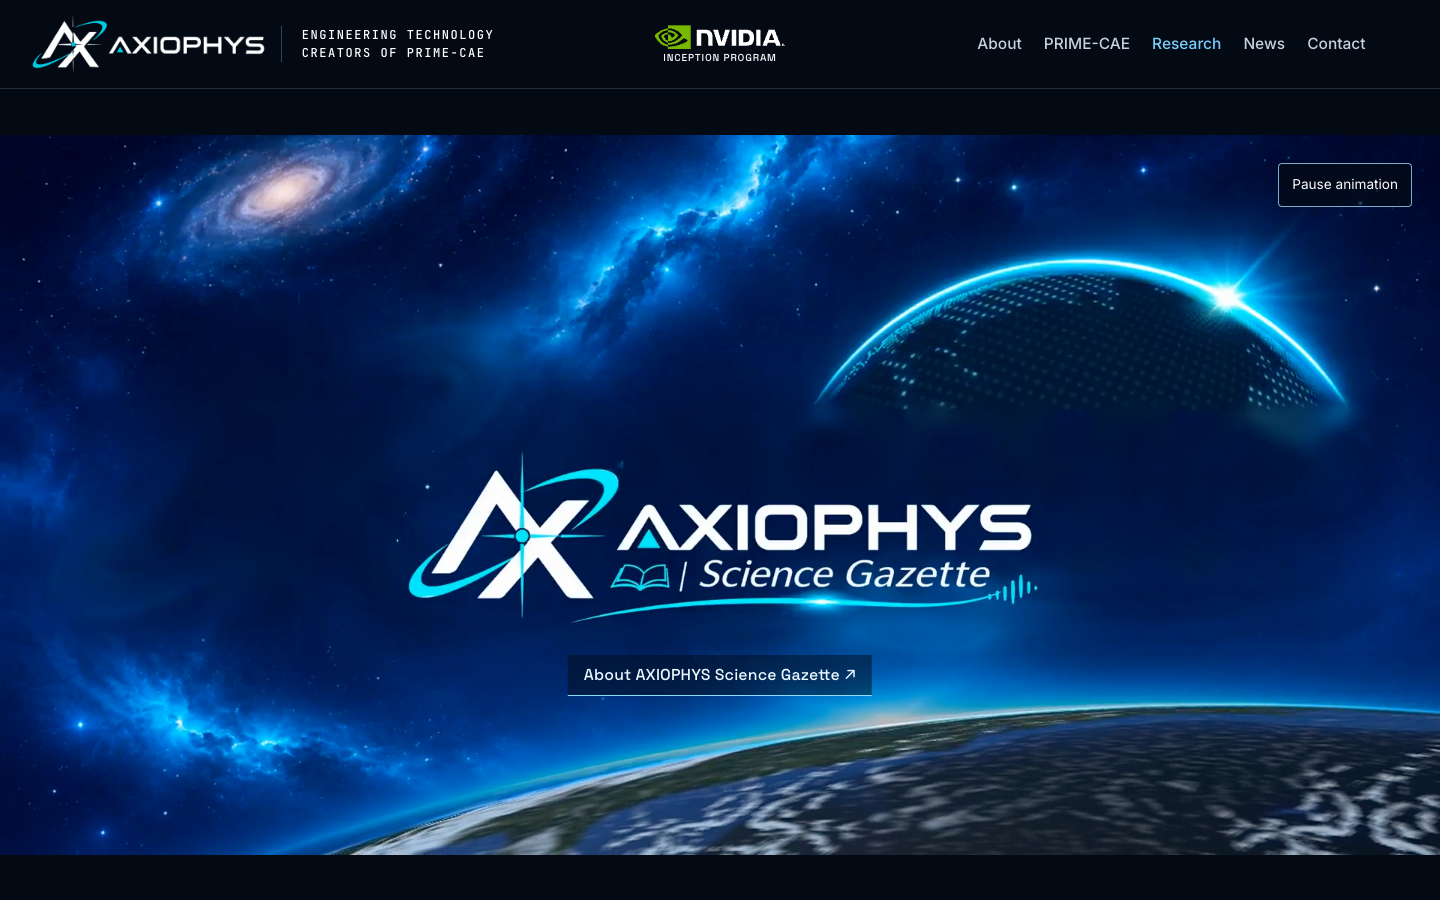
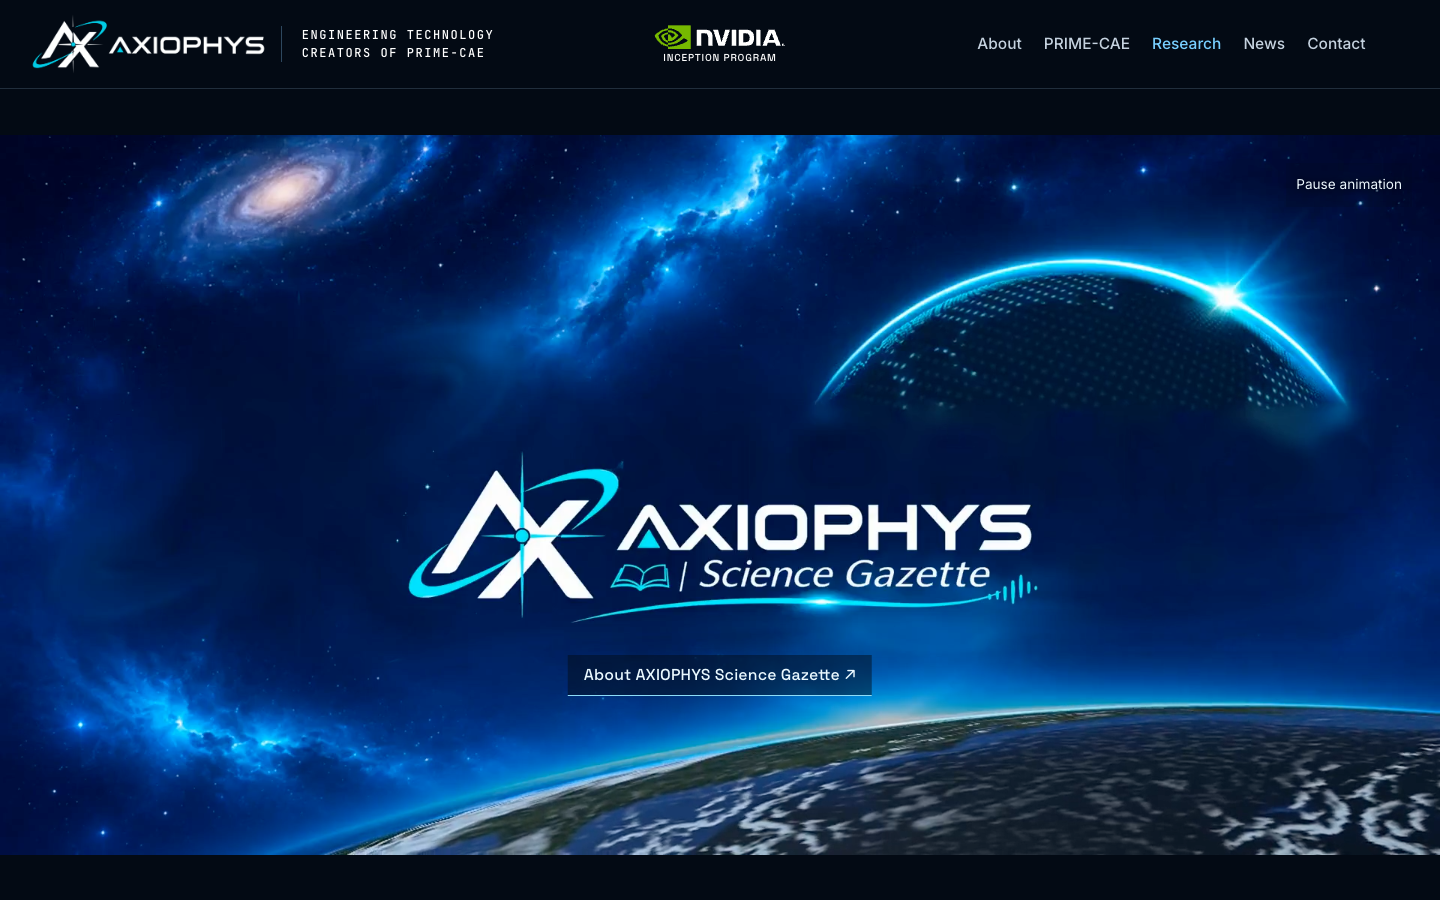
Tighten mobile Gazette hero and soften playback control

diff --git a/research.html b/research.html
@@ -1,4 +1,4 @@
-<!doctype html><html lang="en"><head><meta charset="utf-8"><meta name="viewport" content="width=device-width,initial-scale=1"><title>AXIOPHYS Science Gazette | Research &amp; Scientific Publications</title><meta name="description" content="Explore AXIOPHYS Science Gazette, the scientific communication platform of AXIOPHYS R&amp;D, featuring computational science, engineering demonstrations, research papers and PRIME-CAE manuals."><link rel="canonical" href="https://axiophys.com/research.html"><meta name="theme-color" content="#030a14"><meta property="og:title" content="AXIOPHYS Science Gazette | Research &amp; Scientific Publications"><meta property="og:description" content="Explore AXIOPHYS Science Gazette, the scientific communication platform of AXIOPHYS R&amp;D, featuring computational science, engineering demonstrations, research papers and PRIME-CAE manuals."><meta property="og:url" content="https://axiophys.com/research.html"><meta property="og:type" content="website"><meta property="og:image" content="https://axiophys.com/media/gazette/science-gazette-poster.jpg"><link href="https://fonts.googleapis.com/css2?family=Space+Grotesk:wght@400;500;600&family=Inter:wght@400;500;600&family=JetBrains+Mono:wght@400;500&display=swap" rel="stylesheet"><link rel="stylesheet" href="css/tokens.css"><link rel="stylesheet" href="css/base.css"><link rel="stylesheet" href="css/layout.css"><link rel="stylesheet" href="css/components.css"><link rel="stylesheet" href="css/hero.css"><link rel="stylesheet" href="css/sections.css"><link rel="stylesheet" href="css/mobile.css"><link rel="stylesheet" href="css/axiophys.css"><link rel="stylesheet" href="css/news.css"><link rel="stylesheet" href="css/research.css?v=1"></head><body class="gazette-page"><svg xmlns="http://www.w3.org/2000/svg" width="0" height="0" aria-hidden="true" style="position:absolute;pointer-events:none"><defs><filter id="axiophys-on-dark" color-interpolation-filters="sRGB"><feColorMatrix type="matrix" values="1 -1.3944 0 0 1.1155  0 -0.26667 0 0 1.0251  0 -0.13333 0 0 1.01255  0 0 0 1 0"/></filter></defs></svg><header class="nav" id="nav" data-env="navy">
+<!doctype html><html lang="en"><head><meta charset="utf-8"><meta name="viewport" content="width=device-width,initial-scale=1"><title>AXIOPHYS Science Gazette | Research &amp; Scientific Publications</title><meta name="description" content="Explore AXIOPHYS Science Gazette, the scientific communication platform of AXIOPHYS R&amp;D, featuring computational science, engineering demonstrations, research papers and PRIME-CAE manuals."><link rel="canonical" href="https://axiophys.com/research.html"><meta name="theme-color" content="#030a14"><meta property="og:title" content="AXIOPHYS Science Gazette | Research &amp; Scientific Publications"><meta property="og:description" content="Explore AXIOPHYS Science Gazette, the scientific communication platform of AXIOPHYS R&amp;D, featuring computational science, engineering demonstrations, research papers and PRIME-CAE manuals."><meta property="og:url" content="https://axiophys.com/research.html"><meta property="og:type" content="website"><meta property="og:image" content="https://axiophys.com/media/gazette/science-gazette-poster.jpg"><link href="https://fonts.googleapis.com/css2?family=Space+Grotesk:wght@400;500;600&family=Inter:wght@400;500;600&family=JetBrains+Mono:wght@400;500&display=swap" rel="stylesheet"><link rel="stylesheet" href="css/tokens.css"><link rel="stylesheet" href="css/base.css"><link rel="stylesheet" href="css/layout.css"><link rel="stylesheet" href="css/components.css"><link rel="stylesheet" href="css/hero.css"><link rel="stylesheet" href="css/sections.css"><link rel="stylesheet" href="css/mobile.css"><link rel="stylesheet" href="css/axiophys.css"><link rel="stylesheet" href="css/news.css"><link rel="stylesheet" href="css/research.css?v=2"></head><body class="gazette-page"><svg xmlns="http://www.w3.org/2000/svg" width="0" height="0" aria-hidden="true" style="position:absolute;pointer-events:none"><defs><filter id="axiophys-on-dark" color-interpolation-filters="sRGB"><feColorMatrix type="matrix" values="1 -1.3944 0 0 1.1155  0 -0.26667 0 0 1.0251  0 -0.13333 0 0 1.01255  0 0 0 1 0"/></filter></defs></svg><header class="nav" id="nav" data-env="navy">
   <div class="progress" aria-hidden="true"><i id="progressBar"></i></div>
   <div class="shell nav__in">
     <a class="nav__brand" href="#top" aria-label="AXIOPHYS home">

diff --git a/about-science-gazette.html b/about-science-gazette.html
@@ -1,4 +1,4 @@
-<!doctype html><html lang="en"><head><meta charset="utf-8"><meta name="viewport" content="width=device-width,initial-scale=1"><title>About AXIOPHYS Science Gazette | AXIOPHYS R&amp;D</title><meta name="description" content="The research philosophy behind AXIOPHYS Science Gazette and its connection between scientific discovery and engineering innovation."><link rel="canonical" href="https://axiophys.com/about-science-gazette.html"><meta name="theme-color" content="#030a14"><meta property="og:title" content="About AXIOPHYS Science Gazette | AXIOPHYS R&amp;D"><meta property="og:description" content="The research philosophy behind AXIOPHYS Science Gazette and its connection between scientific discovery and engineering innovation."><meta property="og:url" content="https://axiophys.com/about-science-gazette.html"><meta property="og:type" content="website"><meta property="og:image" content="https://axiophys.com/media/gazette/science-gazette-poster.jpg"><link href="https://fonts.googleapis.com/css2?family=Space+Grotesk:wght@400;500;600&family=Inter:wght@400;500;600&family=JetBrains+Mono:wght@400;500&display=swap" rel="stylesheet"><link rel="stylesheet" href="css/tokens.css"><link rel="stylesheet" href="css/base.css"><link rel="stylesheet" href="css/layout.css"><link rel="stylesheet" href="css/components.css"><link rel="stylesheet" href="css/hero.css"><link rel="stylesheet" href="css/sections.css"><link rel="stylesheet" href="css/mobile.css"><link rel="stylesheet" href="css/axiophys.css"><link rel="stylesheet" href="css/research.css?v=1"></head><body class="gazette-page"><svg xmlns="http://www.w3.org/2000/svg" width="0" height="0" aria-hidden="true" style="position:absolute;pointer-events:none"><defs><filter id="axiophys-on-dark" color-interpolation-filters="sRGB"><feColorMatrix type="matrix" values="1 -1.3944 0 0 1.1155  0 -0.26667 0 0 1.0251  0 -0.13333 0 0 1.01255  0 0 0 1 0"/></filter></defs></svg><header class="nav" id="nav" data-env="navy">
+<!doctype html><html lang="en"><head><meta charset="utf-8"><meta name="viewport" content="width=device-width,initial-scale=1"><title>About AXIOPHYS Science Gazette | AXIOPHYS R&amp;D</title><meta name="description" content="The research philosophy behind AXIOPHYS Science Gazette and its connection between scientific discovery and engineering innovation."><link rel="canonical" href="https://axiophys.com/about-science-gazette.html"><meta name="theme-color" content="#030a14"><meta property="og:title" content="About AXIOPHYS Science Gazette | AXIOPHYS R&amp;D"><meta property="og:description" content="The research philosophy behind AXIOPHYS Science Gazette and its connection between scientific discovery and engineering innovation."><meta property="og:url" content="https://axiophys.com/about-science-gazette.html"><meta property="og:type" content="website"><meta property="og:image" content="https://axiophys.com/media/gazette/science-gazette-poster.jpg"><link href="https://fonts.googleapis.com/css2?family=Space+Grotesk:wght@400;500;600&family=Inter:wght@400;500;600&family=JetBrains+Mono:wght@400;500&display=swap" rel="stylesheet"><link rel="stylesheet" href="css/tokens.css"><link rel="stylesheet" href="css/base.css"><link rel="stylesheet" href="css/layout.css"><link rel="stylesheet" href="css/components.css"><link rel="stylesheet" href="css/hero.css"><link rel="stylesheet" href="css/sections.css"><link rel="stylesheet" href="css/mobile.css"><link rel="stylesheet" href="css/axiophys.css"><link rel="stylesheet" href="css/research.css?v=2"></head><body class="gazette-page"><svg xmlns="http://www.w3.org/2000/svg" width="0" height="0" aria-hidden="true" style="position:absolute;pointer-events:none"><defs><filter id="axiophys-on-dark" color-interpolation-filters="sRGB"><feColorMatrix type="matrix" values="1 -1.3944 0 0 1.1155  0 -0.26667 0 0 1.0251  0 -0.13333 0 0 1.01255  0 0 0 1 0"/></filter></defs></svg><header class="nav" id="nav" data-env="navy">
   <div class="progress" aria-hidden="true"><i id="progressBar"></i></div>
   <div class="shell nav__in">
     <a class="nav__brand" href="#top" aria-label="AXIOPHYS home">

diff --git a/news.html b/news.html
@@ -1,4 +1,4 @@
-<!doctype html><html lang="en"><head><meta charset="utf-8"><meta name="viewport" content="width=device-width,initial-scale=1"><title>News | AXIOPHYS</title><meta name="description" content="Corporate announcements and company milestones from AXIOPHYS and PRIME-CAE."><link rel="canonical" href="https://axiophys.com/news.html"><meta name="theme-color" content="#030a14"><meta property="og:title" content="News | AXIOPHYS"><meta property="og:description" content="Corporate announcements and company milestones from AXIOPHYS and PRIME-CAE."><meta property="og:url" content="https://axiophys.com/news.html"><meta property="og:type" content="website"><link href="https://fonts.googleapis.com/css2?family=Space+Grotesk:wght@400;500;600&family=Inter:wght@400;500;600&family=JetBrains+Mono:wght@400;500&display=swap" rel="stylesheet"><link rel="stylesheet" href="css/tokens.css"><link rel="stylesheet" href="css/base.css"><link rel="stylesheet" href="css/layout.css"><link rel="stylesheet" href="css/components.css"><link rel="stylesheet" href="css/hero.css"><link rel="stylesheet" href="css/sections.css"><link rel="stylesheet" href="css/mobile.css"><link rel="stylesheet" href="css/axiophys.css"><link rel="stylesheet" href="css/news.css"><link rel="stylesheet" href="css/research.css?v=1"></head><body class="news-page news-index"><svg xmlns="http://www.w3.org/2000/svg" width="0" height="0" aria-hidden="true" style="position:absolute;pointer-events:none"><defs><filter id="axiophys-on-dark" color-interpolation-filters="sRGB"><feColorMatrix type="matrix" values="1 -1.3944 0 0 1.1155  0 -0.26667 0 0 1.0251  0 -0.13333 0 0 1.01255  0 0 0 1 0"/></filter></defs></svg><header class="nav" id="nav" data-env="navy">
+<!doctype html><html lang="en"><head><meta charset="utf-8"><meta name="viewport" content="width=device-width,initial-scale=1"><title>News | AXIOPHYS</title><meta name="description" content="Corporate announcements and company milestones from AXIOPHYS and PRIME-CAE."><link rel="canonical" href="https://axiophys.com/news.html"><meta name="theme-color" content="#030a14"><meta property="og:title" content="News | AXIOPHYS"><meta property="og:description" content="Corporate announcements and company milestones from AXIOPHYS and PRIME-CAE."><meta property="og:url" content="https://axiophys.com/news.html"><meta property="og:type" content="website"><link href="https://fonts.googleapis.com/css2?family=Space+Grotesk:wght@400;500;600&family=Inter:wght@400;500;600&family=JetBrains+Mono:wght@400;500&display=swap" rel="stylesheet"><link rel="stylesheet" href="css/tokens.css"><link rel="stylesheet" href="css/base.css"><link rel="stylesheet" href="css/layout.css"><link rel="stylesheet" href="css/components.css"><link rel="stylesheet" href="css/hero.css"><link rel="stylesheet" href="css/sections.css"><link rel="stylesheet" href="css/mobile.css"><link rel="stylesheet" href="css/axiophys.css"><link rel="stylesheet" href="css/news.css"><link rel="stylesheet" href="css/research.css?v=2"></head><body class="news-page news-index"><svg xmlns="http://www.w3.org/2000/svg" width="0" height="0" aria-hidden="true" style="position:absolute;pointer-events:none"><defs><filter id="axiophys-on-dark" color-interpolation-filters="sRGB"><feColorMatrix type="matrix" values="1 -1.3944 0 0 1.1155  0 -0.26667 0 0 1.0251  0 -0.13333 0 0 1.01255  0 0 0 1 0"/></filter></defs></svg><header class="nav" id="nav" data-env="navy">
   <div class="progress" aria-hidden="true"><i id="progressBar"></i></div>
   <div class="shell nav__in">
     <a class="nav__brand" href="#top" aria-label="AXIOPHYS home">

diff --git a/css/research.css b/css/research.css
@@ -7,7 +7,8 @@
 .gazette-hero video{display:block;width:100%;height:auto;max-height:calc(100svh - var(--gazette-nav-h,var(--nav-h)));aspect-ratio:2/1;object-fit:contain;background:#030a14}
 .gazette-hero__about{position:absolute;left:50%;bottom:22%;translate:-50% 0;z-index:2;white-space:nowrap;color:#e9f8ff;font:500 clamp(.88rem,1.1vw,1.1rem)/1.3 var(--font-sans);letter-spacing:.01em;padding:10px 16px;border-bottom:1px solid #8cdcf8;background:rgba(3,10,20,.48)}
 .gazette-hero__about:hover{background:rgba(3,10,20,.78)}
-.gazette-hero__play{position:absolute;right:clamp(12px,2vw,28px);top:clamp(12px,2vw,28px);z-index:2;color:#fff;background:rgba(3,10,20,.72);border:1px solid #7caccb;padding:9px 13px;min-height:44px;border-radius:4px;font-size:.85rem}
+.gazette-hero__play{position:absolute;right:clamp(12px,2vw,28px);top:clamp(12px,2vw,28px);z-index:2;color:#eef9ff;background:rgba(3,10,20,.12);border:0;padding:8px 10px;min-height:44px;font-size:.85rem;text-shadow:0 1px 8px #000}
+.gazette-hero__play:hover,.gazette-hero__play:focus-visible{background:rgba(3,10,20,.36)}
 .gazette-credit{padding-block:18px 24px;border-bottom:1px solid #d6e1e9;color:#476177;font-size:.82rem;line-height:1.7}
 .gazette-credit summary{cursor:pointer;color:#2a5877;min-height:30px}
 .gazette-credit p{max-width:85ch;margin:12px 0 0}.gazette-credit a,.gazette-article a:not(.gazette-back){color:#086ca8;text-decoration:underline;text-underline-offset:3px}
@@ -32,5 +33,5 @@
 .gazette-page .foot,.news-page .foot{background:#030a14;color:#d9eafa}
 .news-page .news-hero{padding-top:calc(var(--nav-h) + 46px)}
 .news-content#news-updates{scroll-margin-top:calc(var(--nav-h) + 22px)}
-@media(max-width:700px){.gazette-hero{min-height:74svh;align-content:center}.gazette-hero__frame{padding-bottom:74px}.gazette-hero video{max-height:none}.gazette-hero__about{bottom:16px;left:50%;max-width:calc(100% - 28px);white-space:normal;text-align:center;font-size:.88rem}.gazette-hero__play{top:-52px;right:12px;font-size:.75rem}.gazette-categories a{min-height:52px}.gazette-intro{padding-block:54px}.gazette-browser{padding-bottom:60px}.gazette-article{padding-top:calc(var(--gazette-nav-h,var(--nav-h)) + 38px)}.gazette-article .gazette-back{margin-bottom:38px}}
+@media(max-width:700px){.gazette-hero{min-height:0;padding-top:calc(var(--gazette-nav-h,var(--nav-h)) + 16px);padding-bottom:16px;display:block}.gazette-hero__frame{padding-bottom:64px}.gazette-hero video{max-height:none}.gazette-hero__about{bottom:12px;left:50%;max-width:calc(100% - 28px);white-space:normal;text-align:center;font-size:.88rem}.gazette-hero__play{top:8px;right:8px;font-size:.75rem;background:rgba(3,10,20,.08)}.gazette-categories a{min-height:52px}.gazette-intro{padding-block:54px}.gazette-browser{padding-bottom:60px}.gazette-article{padding-top:calc(var(--gazette-nav-h,var(--nav-h)) + 38px)}.gazette-article .gazette-back{margin-bottom:38px}}
 @media(prefers-reduced-motion:reduce){.gazette-hero video{animation:none}}
